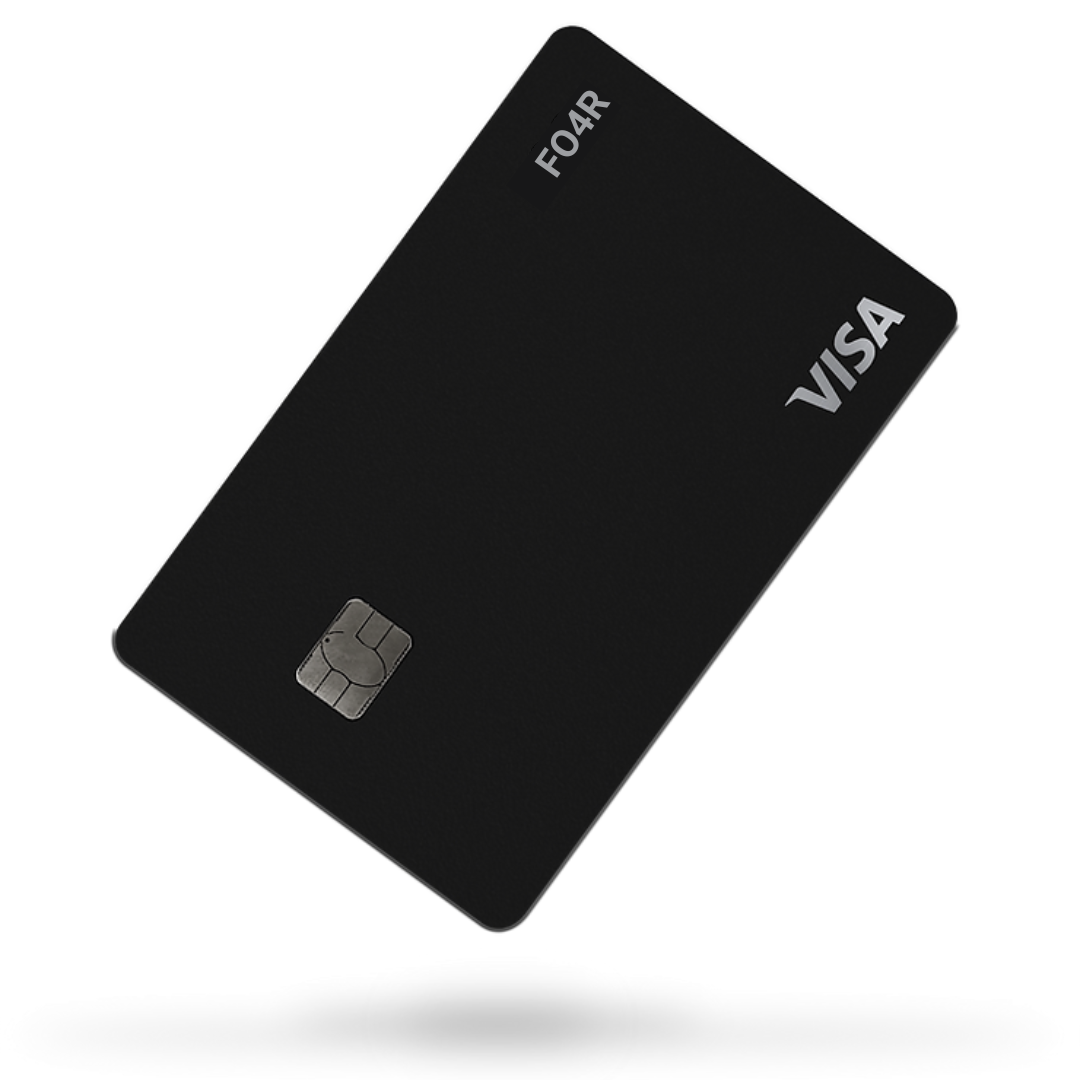
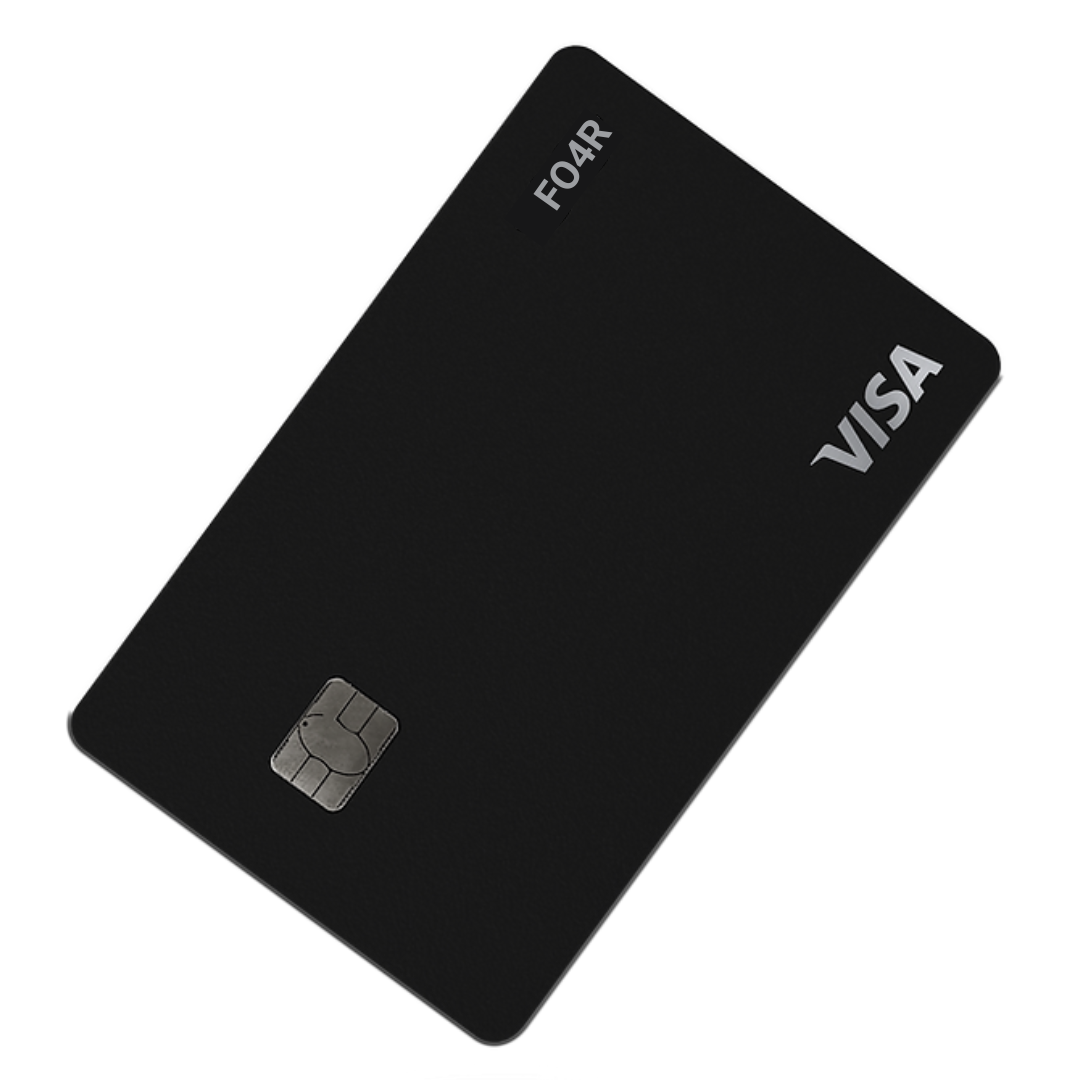
[ADD] Cambios en el texto principal de Tarjeta4

diff --git a/CSS/stylesTarjeta4.css b/CSS/stylesTarjeta4.css
@@ -380,15 +380,32 @@ nav .nav-center p {
 }
 
 .texto h1 {
-    font-size: 3rem;
-    color: #333;
-    line-height: 1.2;
+    font-size: 3.5rem;
+    color: black;
+    
     font-weight: bold;
     margin-top: 50px;
+    font-family: "Ubuntu";
+    text-shadow: 0 4px 6px rgba(0, 0, 0, 0.6); 
+    line-height: 1; 
+    -webkit-font-smoothing: antialiased;
+    transition: color 0.3s ease; 
+    text-rendering: optimizeLegibility; 
+    outline: none; 
+  
 }
 
 .texto span {
     color: grey; /* Color para resaltar el texto */
+
+    text-shadow: 0 4px 6px rgba(0, 0, 0, 0.9); 
+    line-height: 1; 
+    -webkit-font-smoothing: antialiased;
+    transition: color 0.3s ease; 
+    text-rendering: optimizeLegibility; 
+    outline: none; 
+  
+
 }
 
 /* Estilos para el botón */
@@ -396,7 +413,7 @@ nav .nav-center p {
     display: block;
     margin-top: 20px;
     padding: 12px 24px;
-    font-size: 1.2rem;
+    font-size: 1.4rem;
     background-color: black;
     color: white;
     border: none;
@@ -406,7 +423,17 @@ nav .nav-center p {
     margin-left:153px ;
     margin-top: -20px;
     width: 250px;
+    font-family: "Ubuntu";
+    font-weight: bold;  
 }
+
+
+.no-underline {
+
+    text-decoration: none;
+
+}
+
 
 .texto button:hover {
     background-color: grey; /* Cambia el color al pasar el cursor */

diff --git a/HTML/tarjeta4.html b/HTML/tarjeta4.html
@@ -44,11 +44,11 @@
             <div class="contenedorTarjeta1">
                 <div class="contenidoTarjeta">
                     <div class="texto">
-                        <h1> Descubre la nueva era digital en FO4R. <BR><span>¿Te animas?</span></h1>
-                        <a href="login.html"><button>Comienza Ahora</button></a>
+                        <h1> DESCUBRE LA ERA <br>DIGITAL EN FO4R. <BR><span>¿TE ANIMAS?</span></h1>
+                        <a href="login.html" class="no-underline"><button>Comienza Ahora</button></a>
                     </div>
                     <div class="imagen">
-                        <img src="./../imagen2Tarjeta4.png" alt="Imagen de la tarjeta de crédito">
+                        <img src="./../imagen1Tarjeta4(sección).png" alt="Imagen de la tarjeta de crédito">
                     </div>
                 </div>
             </div>
